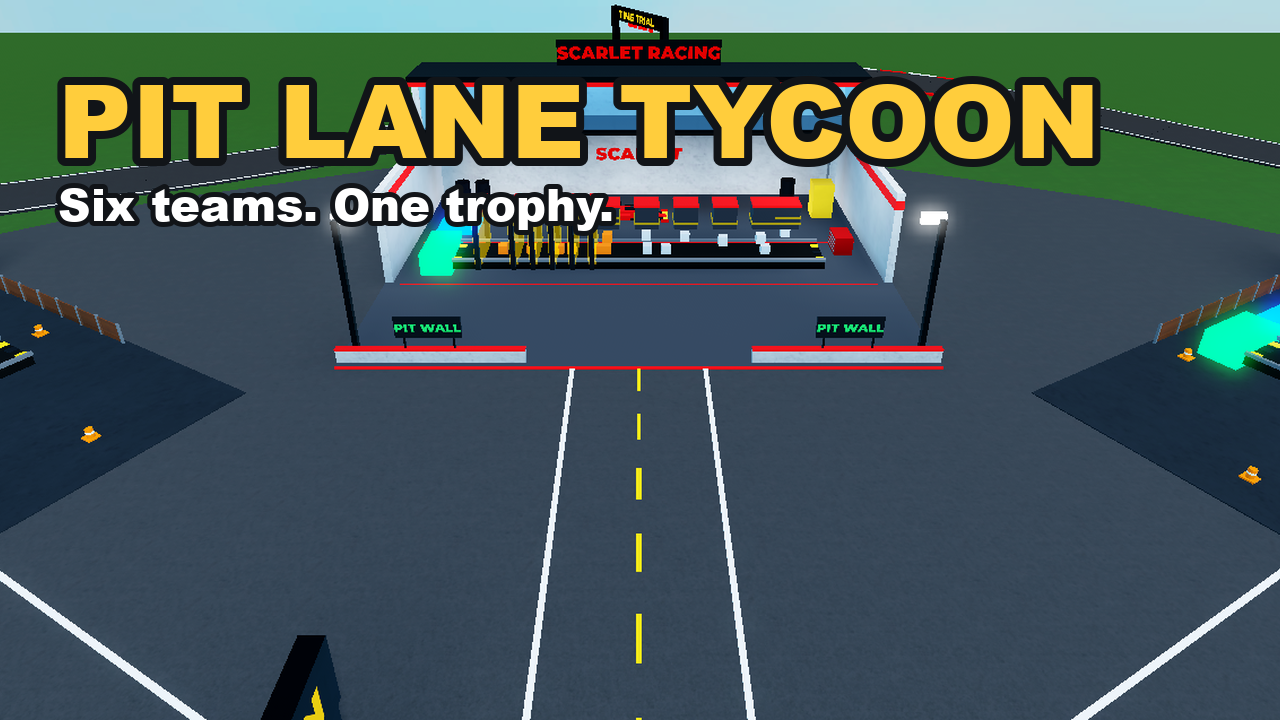
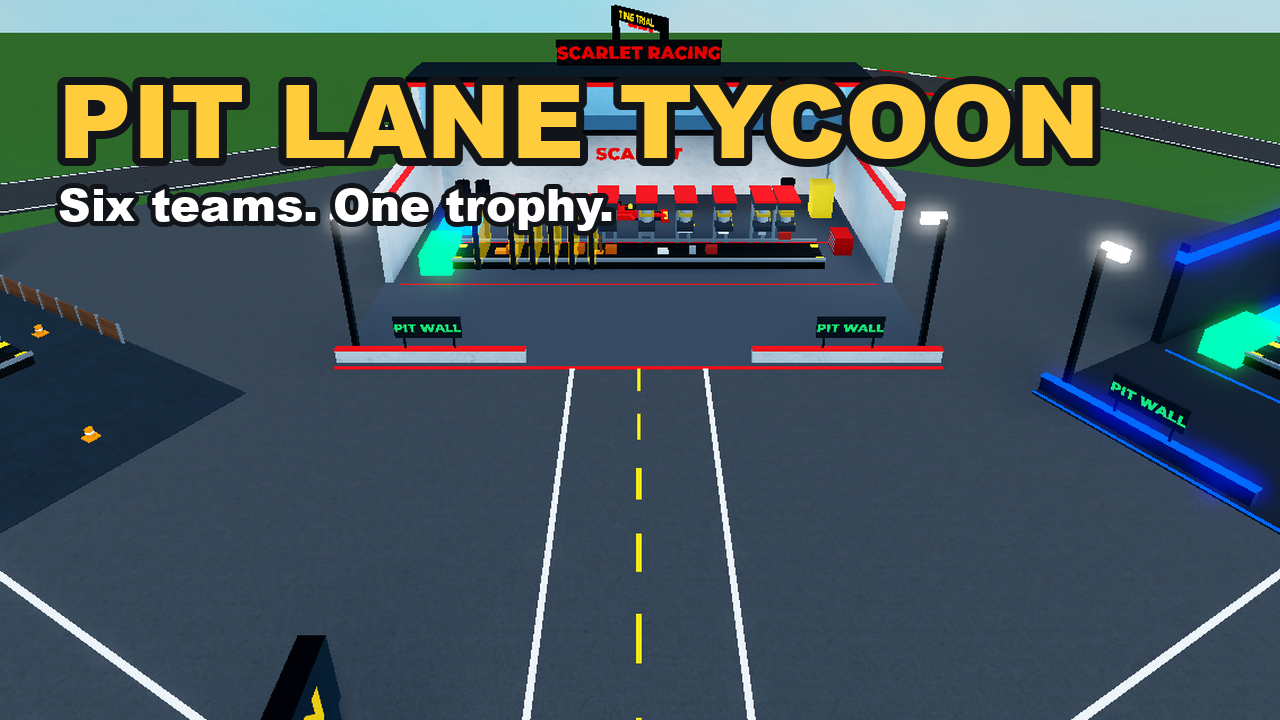
Thumbnails with the new presses, a fifth from the night garage; docs

Changed region(s): [[0.8438, 0.275, 1.0, 0.55], [0.375, 0.2444, 0.625, 0.3667], [0.8125, 0.4583, 1.0, 0.7333]]

diff --git a/tools/studio-test/thumbnails.py b/tools/studio-test/thumbnails.py
@@ -71,13 +71,14 @@ def main() -> None:
     shots, out = Path(sys.argv[1]), Path(sys.argv[2])
     out.mkdir(parents=True, exist_ok=True)
     views = {}
-    for name in ("race", "hero", "car", "line", "paddock"):
+    for name in ("race", "hero", "car", "line", "paddock", "night"):
         vp = viewport(Image.open(shots / f"{name}.png"))
         views[name] = vp.crop((0, int(vp.height * 0.17), vp.width, vp.height))  # below the menu buttons
     titled(views["race"], (1280, 720), "PIT LANE TYCOON", "Drive your own F1 car").save(out / "thumbnail-1.png")
     titled(views["hero"], (1280, 720), "PIT LANE TYCOON", "Build your F1 factory").save(out / "thumbnail-2.png")
     titled(views["line"], (1280, 720), "PIT LANE TYCOON", "Every part pays").save(out / "thumbnail-3.png")
     titled(views["paddock"], (1280, 720), "PIT LANE TYCOON", "Six teams. One trophy.").save(out / "thumbnail-4.png")
+    titled(views["night"], (1280, 720), "PIT LANE TYCOON", "A new look in season 3").save(out / "thumbnail-5.png")
     icon = car_icon(views["car"])
     icon.save(out / "icon.png")
     for f in sorted(out.glob("*.png")):

diff --git a/docs/LAUNCH.md b/docs/LAUNCH.md
@@ -58,7 +58,7 @@ Everything else is built and tested; these need your account, your ears or other
    are six garages, and a seventh player would have none.
 3. **Icon and thumbnails** matter more than anything else for clicks: a bright car on a
    conveyor, big readable title, no small text. Ready-made ones are in `marketing/`
-   (`icon.png` 512x512, `thumbnail-1..4.png` 1280x720); upload all four thumbnails so Roblox
+   (`icon.png` 512x512, `thumbnail-1..5.png` 1280x720); upload all five thumbnails so Roblox
    rotates them. They contain no avatar or username. To remake them after a visual change:
    `python tools/studio-test/run.py PitLaneTycoon.rbxlx --photos --shots shots` then
    `python tools/studio-test/thumbnails.py shots marketing`.
@@ -138,7 +138,12 @@ with a fake store; CI runs it on every push.
 
 ## Next features (in order of expected impact)
 
-1. A second plot theme unlocked in season 3 (keeps rebirthing fresh).
+1. A second track layout, or a reversed direction, unlocked in a later season.
+2. Proper 3D models (meshes) for the car and machines; everything is still built from parts.
+
+Done 25 Oct 2026: the night garage from season 3 (graphite walls, team colours that glow),
+stamping presses with a moving die, a different part from each press, a fuller car with a
+helmeted driver in the show car, F1 start lights, engine and tyre sounds, a speed readout.
 
 Done 24 Oct 2026: a longer first season (11 purchases became 24), machines that only appear in
 later seasons, and a HUD built for phones.

diff --git a/docs/TESTING.md b/docs/TESTING.md
@@ -29,7 +29,9 @@ current goal. The first gift is ten minutes away, its button counts down, and cl
 is refused. After the drive, a code typed as " pitlane " pays, pays only once, a wrong code is
 turned down, and the code list is nowhere players can read it.
 
-The garage: a free plot is a building site and so is a new team's; the first purchase lays
+The garage: a first-season garage has the day look; the first press is a stamping press with a
+die and makes bolts (each press makes its own part). A free plot is a building site and so is a
+new team's; the first purchase lays
 the floor and clears the cones, the second raises the back wall and takes the scaffolding down.
 
 Then the time trial: the track, the show car's Drive prompt and the Fastest laps board are

diff --git a/README.md b/README.md
@@ -9,7 +9,8 @@ never had.
 
 The garage builds itself as you go: a free plot is a building site, and every few purchases
 another piece rises out of the floor, from the epoxy floor and walls to floodlights, a pit wall
-and an upper deck with a glass front.
+and an upper deck with a glass front. From the third season it takes a night look: graphite
+walls and team colours that glow.
 
 A goal panel always shows the next thing to aim for (bank, buy, lap, earn, beat a lap time,
 win the trophy, start a season) and pays when it is met; a gift waits every 10 minutes played;
